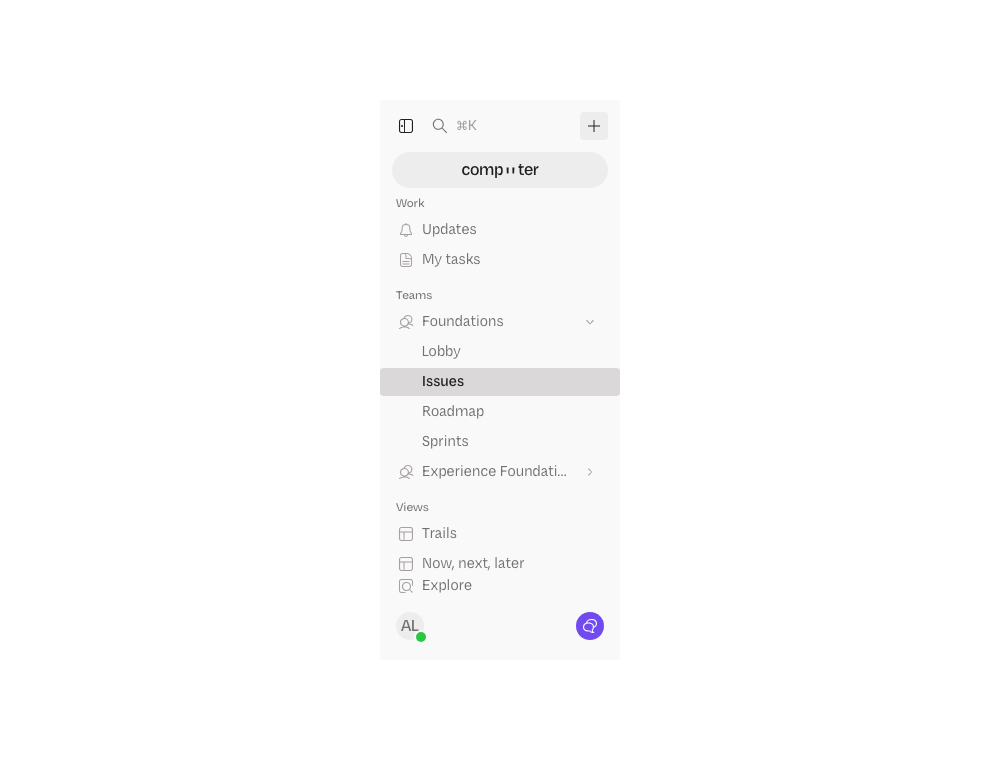
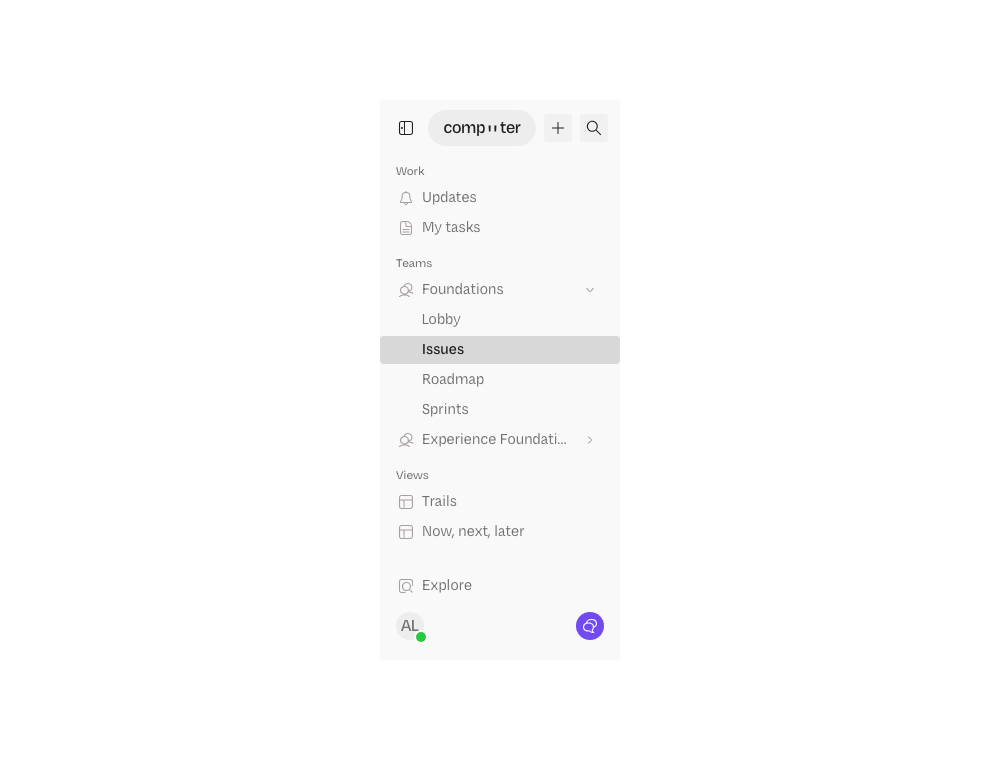
fix(studio/prototype-kit): NavSidebar top toolbar — single-row button config
Match Figma "Teams and navigation" (node 3531:9024). The sidebar top now
renders one row — collapse · computer pill (flex-1) · add · search — instead
of a toolbar row plus a separate full-width pill below.

- Pill moves into the toolbar row, flex-1, between collapse and the
  add/search cluster.
- Search loses the ⌘K text field and becomes a 28px icon-only button next
  to add; both share the soft-neutral square fill.
- Pill fill stays --bg-neutral-soft: the kit's --bg-neutral-subtle is a dark
  #211e20 @ 15% base that reads far darker than the design's light wash.

Slot API (toolbar / pill / header / footer) preserved; pill is now threaded
through the toolbar internally.

diff --git a/studio/prototype-kit/composites/NavSidebar.tsx b/studio/prototype-kit/composites/NavSidebar.tsx
@@ -7,9 +7,9 @@
  * (collapse / ⌘K search / add) but NOT the mac traffic lights.
  *
  * Default chrome (rendered top→bottom):
- * - Toolbar (top): collapse IconButton + ⌘K search field + "add" IconButton.
- * - Computer pill: a full-width muted rounded button with the "computer"
- *   wordmark — the product switcher.
+ * - Toolbar (top, ONE row): collapse IconButton + the "computer" product-switcher
+ *   pill (flex-1, muted rounded button with the "computer" wordmark) + an "add"
+ *   IconButton + a search IconButton. The pill lives INSIDE the toolbar row.
  * - Nav body (scrollable): the canonical DevRev nav (Work / Teams / Views +
  *   Explore) by default, or NavSidebar.Section + NavSidebar.Item children if
  *   you pass your own tree.
@@ -34,8 +34,11 @@
  * - `workspace` — accepted for back-compat but IGNORED. The pill is the
  *   "computer" product switcher and always shows the computer wordmark; it is
  *   not a workspace-name label. (Pass a custom `pill` to change the switcher.)
- * - `toolbar` — replace the default top toolbar. Pass `false` to hide it.
- * - `pill` — replace the default computer pill. Pass `false` to hide it.
+ * - `toolbar` — replace the default top toolbar (collapse + pill + add +
+ *   search, all on one row). Pass `false` to hide it.
+ * - `pill` — replace the default computer pill that sits INSIDE the toolbar
+ *   row (flex-1, between the collapse button and the add/search cluster).
+ *   Pass `false` to hide just the pill.
  * - `header` — legacy: a custom node ABOVE the toolbar (e.g.
  *   `<NavSidebar.BackHeader>` for the Settings "← Title" chrome). When set,
  *   the default toolbar + pill are suppressed (the Settings chrome owns the top).
@@ -105,12 +108,13 @@ function Root({
   // wordmark, never a workspace name. (Older callers passed workspace="DevRev",
   // which previously — and wrongly — replaced the logo with plain text.)
   void workspace;
-  const topNode = header ?? (
-    <>
-      {toolbar === false ? null : (toolbar ?? <Toolbar />)}
-      {pill === false ? null : (pill ?? <ComputerPill />)}
-    </>
-  );
+  // The pill now lives INSIDE the toolbar row (flex-1, between collapse and the
+  // add/search cluster) — per Figma 3531:9027. The toolbar owns it so the
+  // `pill` slot (custom node or `false` to hide) still works.
+  const pillNode = pill === false ? null : (pill ?? <ComputerPill />);
+  const topNode =
+    header ??
+    (toolbar === false ? null : (toolbar ?? <Toolbar pill={pillNode} />));
   const footerNode = footer === false ? null : (footer ?? <UserFooter />);
   // Bake the canonical DevRev nav as the default. A prototype almost always
   // wants the real Work / Teams / Views + Explore tree, and asking the
@@ -182,41 +186,34 @@ function DefaultBottomNav() {
 /* ─── Toolbar (collapse / search / add) ─────────────────────────────────── */
 
 function Toolbar({
+  pill,
   onToggle,
   onAdd,
+  onSearch,
 }: {
+  /** The product-switcher pill, rendered flex-1 between the collapse button
+   *  and the add/search cluster. NavSidebar passes the computed pill node here;
+   *  pass `null` to omit it. */
+  pill?: ReactNode;
   onToggle?: () => void;
   onAdd?: () => void;
+  onSearch?: () => void;
 }) {
   return (
-    <div className="flex items-center justify-between gap-1 px-3 py-2.5 shrink-0">
-      {/* Left cluster hugs its content (collapse + search). It must NOT take
-          flex-1, or the search button's hover background stretches the full
-          sidebar width — the design's search is auto-width. */}
-      <div className="flex items-center gap-1 min-w-0">
-        <IconButton
-          aria-label="Collapse sidebar"
-          variant="tertiary"
-          onClick={onToggle}
-        >
-          <DotInLeftWindow size={16} />
-        </IconButton>
-        <button
-          type="button"
-          aria-label="Search"
-          // Auto-width (no flex-1): the hover wash only covers the icon + ⌘K.
-          className="inline-flex items-center gap-2 h-8 px-2 rounded-square text-(--fg-neutral-medium) hover:bg-(--control-bg-neutral-subtle-hover)"
-        >
-          {/* Full-weight search icon in the medium fg — the design's magnifier
-              reads clearly, not the faint subtle token. */}
-          <MagnifyingGlass size={16} className="shrink-0 text-(--fg-neutral-medium)" />
-          {/* Plain "⌘K" hint, NOT the KeyboardShortcut badge (which renders
-              "⌘ + K" with a separator the design doesn't use). */}
-          <span className="text-system text-(--fg-neutral-subtle)">⌘K</span>
-        </button>
-      </div>
-      {/* Secondary "add" button: the design gives it a soft neutral fill
-          (Figma BG/Neutral/Soft), not the near-invisible default. */}
+    // ONE row (Figma 3531:9027): collapse · pill (flex-1) · add · search.
+    // gap-2 between the clusters; the pill fills the slack so the add/search
+    // buttons pin to the right edge.
+    <div className="flex items-center gap-2 px-3 py-2.5 shrink-0">
+      <IconButton
+        aria-label="Collapse sidebar"
+        variant="tertiary"
+        onClick={onToggle}
+      >
+        <DotInLeftWindow size={16} />
+      </IconButton>
+      {pill}
+      {/* Add + search: two 28px squares with a soft neutral fill (Figma
+          BG/Neutral/Soft), not the near-invisible default. */}
       <IconButton
         aria-label="Add"
         variant="secondary"
@@ -224,6 +221,14 @@ function Toolbar({
         className="bg-(--bg-neutral-soft) hover:bg-(--control-bg-neutral-subtle-hover)"
       >
         <PlusLarge size={16} />
+      </IconButton>
+      <IconButton
+        aria-label="Search"
+        variant="secondary"
+        onClick={onSearch}
+        className="bg-(--bg-neutral-soft) hover:bg-(--control-bg-neutral-subtle-hover)"
+      >
+        <MagnifyingGlass size={16} />
       </IconButton>
     </div>
   );
@@ -237,21 +242,23 @@ function ComputerPill({
   onClick?: () => void;
 }) {
   return (
-    <div className="px-3 shrink-0">
-      <button
-        type="button"
-        onClick={onClick}
-        aria-label="computer"
-        // Figma pill fill is a LIGHT neutral wash (BG/Neutral/Soft). The
-        // kit's --bg-neutral-subtle reads too dark here, so use --bg-neutral-soft.
-        className="flex w-full items-center justify-center h-9 px-2 rounded-[20px] bg-(--bg-neutral-soft) hover:bg-(--control-bg-neutral-subtle-hover) text-(--fg-neutral-prominent)"
-      >
-        {/* The "computer" wordmark: "comp" + the Computer glyph as the "u" +
-            "ter", matching the Figma logo. This is the product switcher and
-            ALWAYS shows the computer brand — it is not a workspace-name label. */}
-        <ComputerWordmark />
-      </button>
-    </div>
+    // flex-1 so the pill fills the toolbar row between collapse and add/search
+    // (Figma 3531:9219 "Navigation Button"). min-w-0 lets it shrink gracefully.
+    <button
+      type="button"
+      onClick={onClick}
+      aria-label="computer"
+      // Figma pill fill is a LIGHT neutral wash (rgba(62,60,61,0.09)). The
+      // kit's --bg-neutral-subtle is #211e20 @ 15% — a far darker base AND
+      // higher alpha — so it reads too dark here. --bg-neutral-soft (#898587 @
+      // 10%) matches the design's light wash (and the add/search buttons).
+      className="flex flex-1 min-w-0 items-center justify-center h-9 px-2 rounded-[20px] bg-(--bg-neutral-soft) hover:bg-(--control-bg-neutral-subtle-hover) text-(--fg-neutral-prominent)"
+    >
+      {/* The "computer" wordmark: "comp" + the Computer glyph as the "u" +
+          "ter", matching the Figma logo. This is the product switcher and
+          ALWAYS shows the computer brand — it is not a workspace-name label. */}
+      <ComputerWordmark />
+    </button>
   );
 }
 

diff --git a/studio/prototype-kit/KIT-MANIFEST.md b/studio/prototype-kit/KIT-MANIFEST.md
@@ -1304,9 +1304,9 @@ Lives BELOW the window chrome in AppShell, so it owns its own top toolbar
 (collapse / ⌘K search / add) but NOT the mac traffic lights.
 
 Default chrome (rendered top→bottom):
-- Toolbar (top): collapse IconButton + ⌘K search field + "add" IconButton.
-- Computer pill: a full-width muted rounded button with the "computer"
-  wordmark — the product switcher.
+- Toolbar (top, ONE row): collapse IconButton + the "computer" product-switcher
+  pill (flex-1, muted rounded button with the "computer" wordmark) + an "add"
+  IconButton + a search IconButton. The pill lives INSIDE the toolbar row.
 - Nav body (scrollable): the canonical DevRev nav (Work / Teams / Views +
   Explore) by default, or NavSidebar.Section + NavSidebar.Item children if
   you pass your own tree.
@@ -1331,8 +1331,11 @@ Slots (all optional — sensible defaults render the full Figma design):
 - `workspace` — accepted for back-compat but IGNORED. The pill is the
   "computer" product switcher and always shows the computer wordmark; it is
   not a workspace-name label. (Pass a custom `pill` to change the switcher.)
-- `toolbar` — replace the default top toolbar. Pass `false` to hide it.
-- `pill` — replace the default computer pill. Pass `false` to hide it.
+- `toolbar` — replace the default top toolbar (collapse + pill + add +
+  search, all on one row). Pass `false` to hide it.
+- `pill` — replace the default computer pill that sits INSIDE the toolbar
+  row (flex-1, between the collapse button and the add/search cluster).
+  Pass `false` to hide just the pill.
 - `header` — legacy: a custom node ABOVE the toolbar (e.g.
   `<NavSidebar.BackHeader>` for the Settings "← Title" chrome). When set,
   the default toolbar + pill are suppressed (the Settings chrome owns the top).